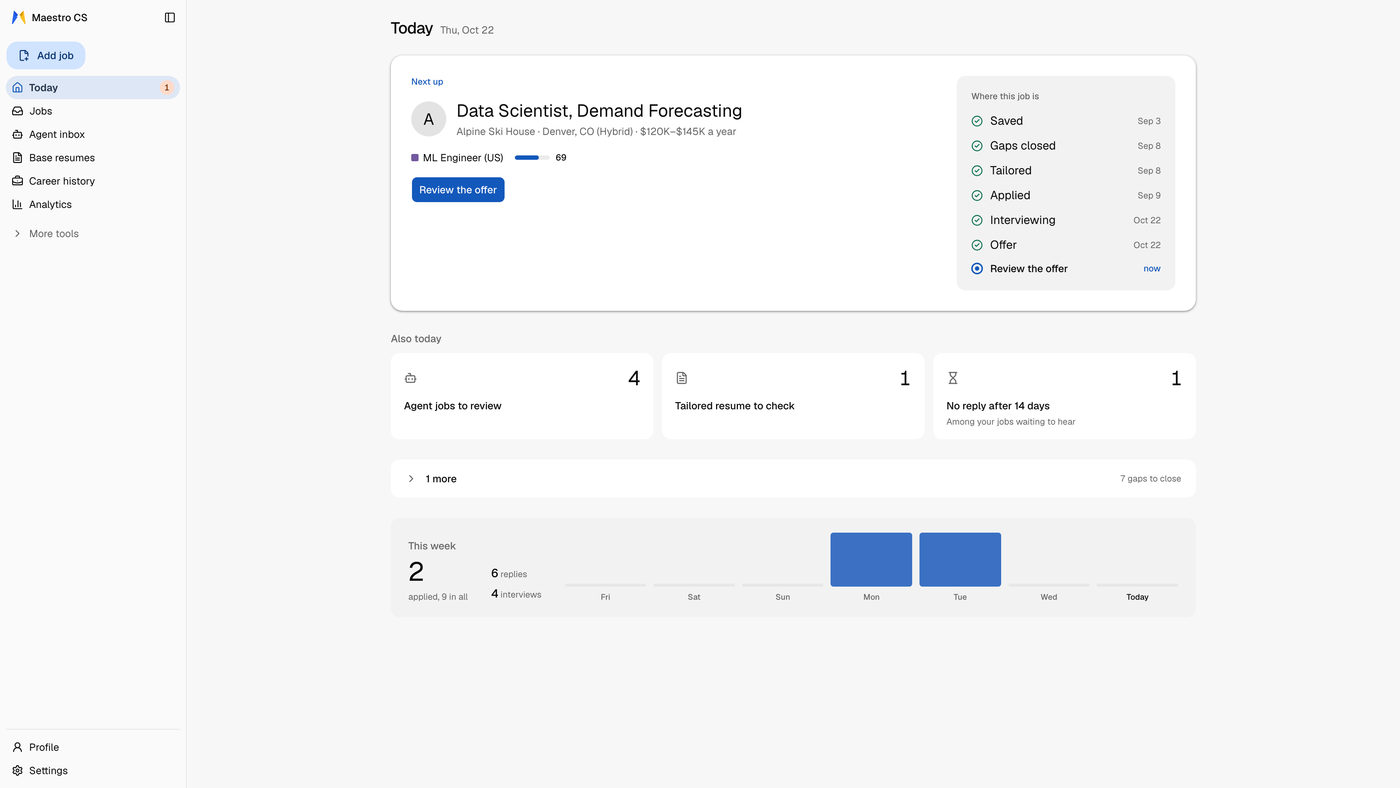
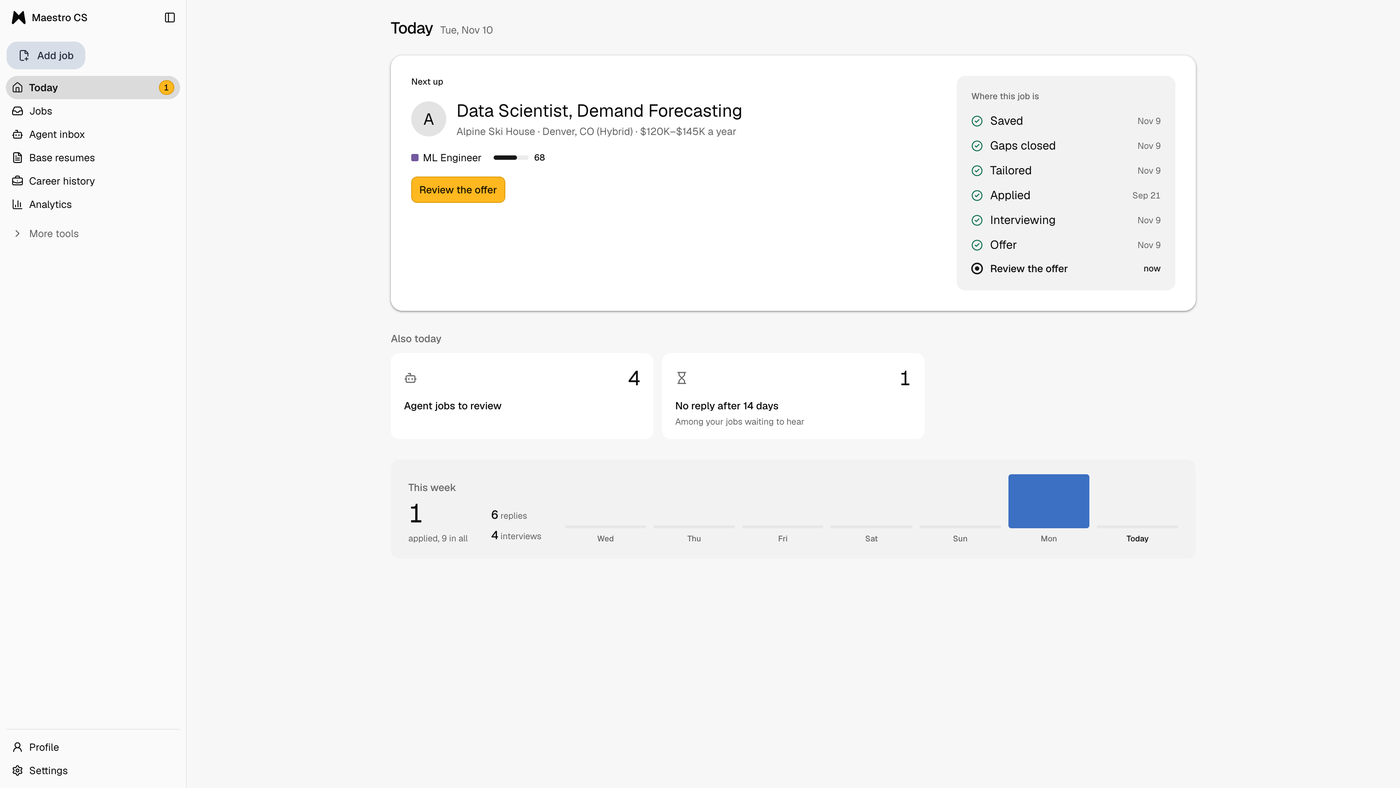
fix(ui): one marigold button per screen, new hero GIF and screenshots
The filled button is now the marigold signal, so screens that showed
several filled buttons at once (unnoticed in blue) shouted. Each view
keeps one, the user's main move; the rest take the quiet variant the
conventions give their kind.

- Career history: "Approve all shown" leads while drafts wait, else
  "Add item". Per-draft Approve and Save, Quick capture, the Basics Save
  and the import card are tonal.
- Referrals, a career item's page, the Assistant, the resume editors and
  the gap analysis page: one filled action each; row Saves, card Dones
  and suggestion-card actions are tonal.
- A disabled filled button is neutral grey, in the app and the
  Companion; a busy one keeps the signal.
- test_frontend_one_filled_button.py now covers these views.

Docs
- All 16 docs screenshots retaken on the refreshed app with the
  fictional Jordan Ellis persona.
- hero.gif is the "Give your job search a memory" loop (1.32 MB), with
  its alt text and provenance note in the README.

diff --git a/frontend/app/career/page.tsx b/frontend/app/career/page.tsx
@@ -49,6 +49,10 @@ export default function CareerPage() {
     queryFn: listKbDrafts,
   });
 
+  // The inbox's Approve all shown is the page's one filled button while drafts wait (the
+  // panel's own test), so Add item steps down to tonal; with none it is the page's lead.
+  const draftsToReview = !drafts.isLoading && !drafts.error && (drafts.data?.length ?? 0) > 0;
+
   const openNewEntity = (kind: KBEntityKind) => setNewEntity({ open: true, kind });
   // On an item tab, "Add item" defaults to that kind; on Basics, to experience.
   const activeKind = ENTITY_TABS.find((tab) => tab.value === activeTab)?.kind ?? "experience";
@@ -78,6 +82,7 @@ export default function CareerPage() {
               <Upload aria-hidden="true" /> Import resumes and documents
             </Button>
             <Button
+              variant={draftsToReview ? "tonal" : "default"}
               className="px-4"
               onClick={() => openNewEntity(activeKind)}
             >
@@ -224,7 +229,7 @@ function CustomSectionsTab({
       ) : items.length === 0 ? (
         <div className="rounded-corner-md bg-surface-container-low p-10 text-center">
           <p className="text-title-small">No other sections yet</p>
-          <Button className="mt-4" size="sm" onClick={onAdd}>
+          <Button className="mt-4" size="sm" variant="tonal" onClick={onAdd}>
             <Plus aria-hidden="true" /> Add section
           </Button>
         </div>
@@ -298,7 +303,7 @@ function EntityTab({
       ) : items.length === 0 ? (
         <div className="rounded-corner-md bg-surface-container-low p-10 text-center">
           <p className="text-title-small">No {title.toLowerCase()} yet</p>
-          <Button className="mt-4" size="sm" onClick={onAdd}>
+          <Button className="mt-4" size="sm" variant="tonal" onClick={onAdd}>
             <Plus aria-hidden="true" /> Add {singular}
           </Button>
         </div>

diff --git a/frontend/components/ui/button.tsx b/frontend/components/ui/button.tsx
@@ -17,7 +17,11 @@ const buttonVariants = cva(
         // The signal (marigold): "this is your move". A fill with dark text and
         // a 1px signal-outline edge, since marigold on white is only 1.7:1. One
         // filled button per view keeps it rare (test_frontend_one_filled_button.py).
-        default: "border-signal-outline bg-signal text-on-signal hover:bg-signal-hover",
+        // Disabled, it is neutral grey: a washed marigold still read as "your
+        // move". A pending (aria-busy, spinning) one is disabled too and stays
+        // marigold, since that move is the one running.
+        default:
+          "border-signal-outline bg-signal text-on-signal hover:bg-signal-hover not-aria-busy:data-disabled:border-transparent not-aria-busy:data-disabled:bg-muted not-aria-busy:data-disabled:text-muted-foreground",
         // The one low-emphasis filled button (the grey `secondary` variant was
         // folded into it). M3's filled-tonal: SECONDARY container, M3's role for "recessive
         // components like tonal buttons". It was `bg-primary/10 text-primary`,

diff --git a/extension/panel/panel.css b/extension/panel/panel.css
@@ -813,6 +813,11 @@ button.stg-row:focus-visible { outline-offset: -2px; }
 /* An action is running. The button is out of reach either way — `disabled` is
    the real guard — and this is what says so before the user presses it again. */
 .cta:disabled { opacity: .6; cursor: default; }
+/* Disabled but not running (another action on this card is), the signal goes neutral grey, as the app's
+   default Button does: a washed marigold still read as "your move". A spinning one keeps the signal. */
+.cta:disabled:not(.spin):not(.alt) {
+  background: var(--cs-muted-container); color: var(--cs-muted); border-color: transparent;
+}
 /* Stop, beside the running fill's spinner: outlined, so it never reads as the
    primary it sits next to. The primary then takes the rest of Stop's line. */
 .stop {

diff --git a/frontend/components/resume-editor/editor-body.tsx b/frontend/components/resume-editor/editor-body.tsx
@@ -666,7 +666,7 @@ function SummaryBlock({
           onChange={(e) => onChange(e.target.value)}
         />
         <div className="flex justify-end">
-          <Button size="sm" onClick={close}>
+          <Button variant="tonal" size="sm" onClick={close}>
             Done
           </Button>
         </div>
@@ -721,7 +721,7 @@ function CertificationsBlock({
           placeholder="Add certification…"
         />
         <div className="flex justify-end">
-          <Button size="sm" onClick={close}>
+          <Button variant="tonal" size="sm" onClick={close}>
             Done
           </Button>
         </div>

diff --git a/frontend/components/career/inbox-panel.tsx b/frontend/components/career/inbox-panel.tsx
@@ -427,6 +427,7 @@ function DraftRow({
           />
           <div className="flex gap-2">
             <Button
+              variant="tonal"
               className="px-4 data-disabled:pointer-events-none data-disabled:opacity-50"
               size="sm"
               onClick={() =>
@@ -491,6 +492,7 @@ function DraftRow({
       <div className="mt-3 flex flex-wrap items-end gap-2 pt-1">
         <Button
           data-draft-action="approve"
+          variant="tonal"
           className="px-4 data-disabled:pointer-events-none data-disabled:opacity-50"
           size="sm"
           onClick={approve}

diff --git a/frontend/components/career/entity-detail.tsx b/frontend/components/career/entity-detail.tsx
@@ -342,7 +342,7 @@ function EntityHeader({ entity }: { entity: KBEntityDetailType }) {
             <Button type="button" variant="ghost" onClick={reset} disabled={save.isPending}>
               <X aria-hidden="true" /> Cancel
             </Button>
-            <Button className="px-4" type="submit" disabled={!title.trim() || save.isPending}>
+            <Button variant="tonal" className="px-4" type="submit" disabled={!title.trim() || save.isPending}>
               {save.isPending ? "Saving…" : "Save details"}
             </Button>
           </div>

diff --git a/frontend/components/career/capture-box.tsx b/frontend/components/career/capture-box.tsx
@@ -205,6 +205,7 @@ export function CaptureBox() {
               <Button
                 // Stays focusable while it captures: a disabled button that
                 // has focus drops it to the page.
+                variant="tonal"
                 className="px-4 data-disabled:pointer-events-none data-disabled:opacity-50"
                 type="submit"
                 disabled={!text.trim() || capture.isPending}

diff --git a/frontend/components/resume-editor/extra-sections-editor.tsx b/frontend/components/resume-editor/extra-sections-editor.tsx
@@ -334,6 +334,7 @@ function SectionCard({
             {editing && (
               <div className="flex justify-end">
                 <Button
+                  variant="tonal"
                   size="sm"
                   className="data-disabled:pointer-events-none data-disabled:opacity-50"
                   // Focusable while a colliding name holds it: a disabled button drops focus.

diff --git a/frontend/app/jobs/[id]/tailor/[sessionId]/page.tsx b/frontend/app/jobs/[id]/tailor/[sessionId]/page.tsx
@@ -1034,6 +1034,7 @@ export default function TailorSessionPage({
             )}
             {/* Focusable while disabled: the confirm hands focus back here as the lock takes it. */}
             <Button
+              variant={staleReason ? "tonal" : "default"}
               className="data-disabled:opacity-50"
               onClick={onTailorClick}
               focusableWhenDisabled

diff --git a/frontend/components/career/points-list.tsx b/frontend/components/career/points-list.tsx
@@ -440,6 +440,7 @@ function PointRow({ entityId, point }: { entityId: string; point: KBPointOut }) 
               <X aria-hidden="true" /> Cancel
             </Button>
             <Button
+              variant="tonal"
               className="px-4 data-disabled:pointer-events-none data-disabled:opacity-50"
               size="sm"
               onClick={() =>

diff --git a/frontend/components/career/notes-editor.tsx b/frontend/components/career/notes-editor.tsx
@@ -180,6 +180,7 @@ export function NotesEditor({
                 <X aria-hidden="true" /> Cancel
               </Button>
               <Button
+                variant="tonal"
                 className="px-4 data-disabled:pointer-events-none data-disabled:opacity-50"
                 size="sm"
                 onClick={() => onSave(() => save.mutate(value))}

diff --git a/frontend/components/career/first-run-import-card.tsx b/frontend/components/career/first-run-import-card.tsx
@@ -69,7 +69,7 @@ export function FirstRunImportCard() {
             </div>
           </div>
           <div className="flex items-center gap-1">
-            <Button size="sm" onClick={() => setOpen(true)}>
+            <Button size="sm" variant="tonal" onClick={() => setOpen(true)}>
               Import resumes
             </Button>
             <Button
